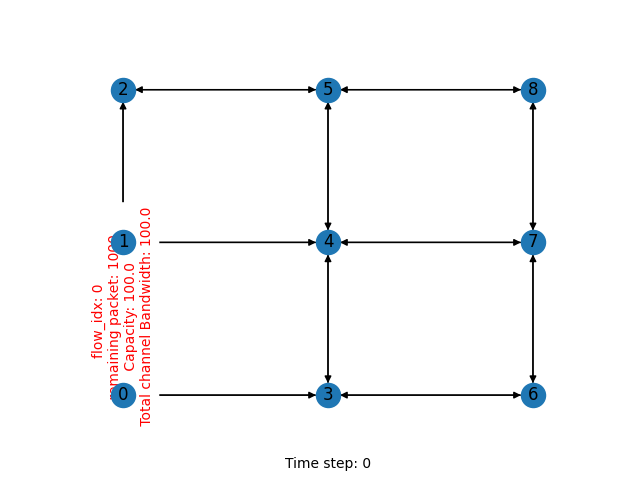
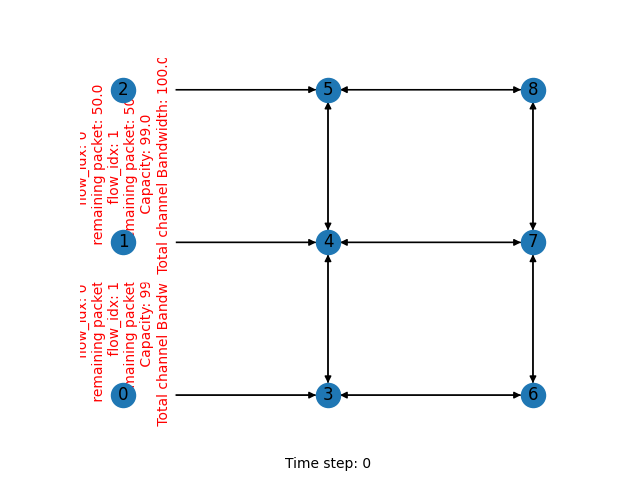
tmp

Changed region(s): [[0.125, 0.125, 0.2812, 0.9062]]

diff --git a/DIAMOND/test/inference_vs_competitors_simple.py b/DIAMOND/test/inference_vs_competitors_simple.py
@@ -24,53 +24,53 @@ if __name__ == "__main__":
     reward_weights = dict(rate_weight=0.5, delay_weight=0, interference_weight=0, capacity_reduction_weight=0)
     #------------------------------------------------------------------------
 
-    # # number of nodes
-    # N = 4
-
-    # # Adjacency matrix
-    # # create 3x3 mesh graph
-    # A = np.array([[0, 1, 1, 1],  #means how connects to who
-    #               [1, 0, 1, 1],
-    #               [1, 1, 0, 1],
-    #               [1, 1, 1, 0]])
-
-    
-    # # P = [(0, 0), (0, 1), (0, 2),                #the position of each node
-    # #      (1, 0), (1, 1), (1, 2),
-    # #      (2, 0), (2, 1), (2, 2)]
-
-    # P = [(0, 0), (0, 1),                 #the position of each node
-    #      (1, 0), (1, 1)] 
-
-    # # capacity matrix
-    # C = 100 * np.ones((N, N))
-    # C = 100 * np.array([[1, 1, 1, 1],  #means how connects to who
-    #                     [1, 1, 1, 1],
-    #                     [1, 1, 1, 1],
-    #                     [1, 1, 1, 1]])
-    #------------------------------------------------------------------------
-   
-    N = 9
+    # number of nodes
+    N = 4
 
     # Adjacency matrix
     # create 3x3 mesh graph
-    A = np.array([[0, 1, 0, 1, 0, 0, 0, 0, 0],
-                  [1, 0, 1, 0, 1, 0, 0, 0, 0],
-                  [0, 1, 0, 0, 0, 1, 0, 0, 0],
-                  [1, 0, 0, 0, 1, 0, 1, 0, 0],
-                  [0, 1, 0, 1, 0, 1, 0, 1, 0],
-                  [0, 0, 1, 0, 1, 0, 0, 0, 1],
-                  [0, 0, 0, 1, 0, 0, 0, 1, 0],
-                  [0, 0, 0, 0, 1, 0, 1, 0, 1],
-                  [0, 0, 0, 0, 0, 1, 0, 1, 0]])
+    A = np.array([[0, 1, 1, 1],  #means how connects to who
+                  [1, 0, 1, 1],
+                  [1, 1, 0, 1],
+                  [1, 1, 1, 0]])
+
     
-    
-    P = [(0, 0), (0, 100.1), (0, 200.2),
-         (100.1, 0), (100.1, 100.1), (100.1, 200.2),
-         (200.2, 0), (200.2, 100.1), (200.2, 200.2)]
+    # P = [(0, 0), (0, 1), (0, 2),                #the position of each node
+    #      (1, 0), (1, 1), (1, 2),
+    #      (2, 0), (2, 1), (2, 2)]
+
+    P = [(0, 0), (0, 1),                 #the position of each node
+         (1, 0), (1, 1)] 
 
     # capacity matrix
     C = 100 * np.ones((N, N))
+    C = 100 * np.array([[1, 1, 1, 1],  #means how connects to who
+                        [1, 1, 1, 1],
+                        [1, 1, 1, 1],
+                        [1, 1, 1, 1]])
+    #------------------------------------------------------------------------
+   
+    # N = 9
+
+    # # Adjacency matrix
+    # # create 3x3 mesh graph
+    # A = np.array([[0, 1, 0, 1, 0, 0, 0, 0, 0],
+    #               [1, 0, 1, 0, 1, 0, 0, 0, 0],
+    #               [0, 1, 0, 0, 0, 1, 0, 0, 0],
+    #               [1, 0, 0, 0, 1, 0, 1, 0, 0],
+    #               [0, 1, 0, 1, 0, 1, 0, 1, 0],
+    #               [0, 0, 1, 0, 1, 0, 0, 0, 1],
+    #               [0, 0, 0, 1, 0, 0, 0, 1, 0],
+    #               [0, 0, 0, 0, 1, 0, 1, 0, 1],
+    #               [0, 0, 0, 0, 0, 1, 0, 1, 0]])
+    
+    
+    # P = [(0, 0), (0, 100.1), (0, 200.2),
+    #      (100.1, 0), (100.1, 100.1), (100.1, 200.2),
+    #      (200.2, 0), (200.2, 100.1), (200.2, 200.2)]
+
+    # # capacity matrix
+    # C = 100 * np.ones((N, N))
     #------------------------------------------------------------------------
 
 
@@ -79,8 +79,8 @@ if __name__ == "__main__":
 
     # flow demands
     F = [
-        {"source": 0, "destination": 8, "packets": 1000, "time_constrain": 10 , 'flow_idx': 0 },
-        {"source": 0, "destination": 8, "packets": 1000, "time_constrain": 10, 'flow_idx': 1}
+        {"source": 0, "destination": 3, "packets": 1000, "time_constrain": 10 , 'flow_idx': 0 }#,
+#        {"source": 0, "destination": 3, "packets": 100, "time_constrain": 10, 'flow_idx': 1}
     ]
 
     slotted_env = SlottedGraphEnvPower( adjacency_matrix=A,
@@ -91,7 +91,7 @@ if __name__ == "__main__":
                                         reward_weights=reward_weights,
                                         telescopic_reward = True,
                                         direction = 'minimize',
-                                        render_mode = True)
+                                        render_mode = False)
 
     slotted_diamond = SlottedDIAMOND(grrl_model_path=MODEL_PATH)
     

diff --git a/DIAMOND/environment/slotted_graph_env_power.py b/DIAMOND/environment/slotted_graph_env_power.py
@@ -37,6 +37,7 @@ class SlottedGraphEnvPower:
 
         # received
         self.flows = flows
+        self.initial_flows = flows
         self.residual_flows = []
         self.next_slot_flows = None
         self.adjacency_matrix = adjacency_matrix
@@ -246,7 +247,7 @@ class SlottedGraphEnvPower:
             trx_power[np.where(self.links_length < rng * 1 / 3)] = 1/3
             trx_power[np.where((self.links_length >= rng * 1 / 3) & (self.links_length < rng * 2 / 3))] = 2/3
         return trx_power
-    
+      
     def __calc_possible_actions(self):
         """ store possible routs into self.possible_actions for each flow"""
         for i, flow in enumerate(self.flows):
@@ -577,8 +578,16 @@ class SlottedGraphEnvPower:
                             flow_idx=flow_idx,
                             path=a['path'])
                 list_of_2flows.append(_2flows)
-            self.flows = list_of_2flows
-            if _2res:
+            else: #flows finishes, append 0 packets
+                _2flows = dict(source=a['source'],
+                            destination=a['destination'],
+                            packets=0,
+                            time_constrain=10,
+                            flow_idx=flow_idx,
+                            path=a['path'])
+                list_of_2flows.append(_2flows)
+            #self.flows = list_of_2flows
+            if _2res and _2res['packets'] > 0:
                 _2res = dict(source=a['path'][1],
                             destination=a['path'][-1],
                             packets=_2res['packets'],
@@ -593,6 +602,7 @@ class SlottedGraphEnvPower:
         # if a residual flow finishes with the first node, than change him to be routed as [srs+1 -> dst]
         # if a residual flow didnot finish, update its packet quantity, and make a new residual flow for what have moved 
         # to the next node till dst
+        self.flows = list_of_2flows
         self.residual_flows += list_of_new_residuals
         return
 

diff --git a/DIAMOND/stage1_grrl/agent.py b/DIAMOND/stage1_grrl/agent.py
@@ -143,7 +143,7 @@ class SlottedGRRL:
         for _ in range(Tot_num_of_timeslots): # as long there is still flows running (determines the num of time_slotes in one episode)
             for step in range(env.num_flows):
                 a = self._select_action(state, env.possible_actions[step])
-                action = [step, 0]
+                action = [step, 1]
                 actions.append(action)
                 paths.append(env.possible_actions[action[0]][action[1]])
                 state, r = env.step(action)
